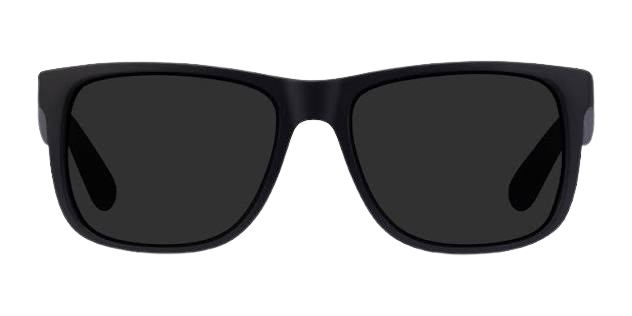
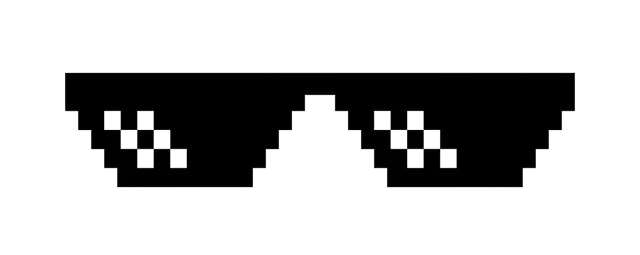
Swap in pixel-art sunglasses and lift the mustache
Sunglasses.png replaced with pixel-art frames. The art fills 79.7% of the
image width where the previous photo-real pair filled 88.1%, so
CONTENT_WIDTH_FRACTION moves with it - that constant is what converts a
desired visible width into the sprite width, so leaving it would have
rendered every pair about 10% too narrow. Alignment needed nothing: the new
art is bbox-centred at (0.500, 0.510), so the existing centre anchor still
lines up. Aspect goes 2:1 -> 2.51:1, which falls out of the texture.

Mustache NOSE_DROP_FACTOR 0.18 -> 0.14. 0.18 overshot onto the upper lip;
this parks it in the gap between nose and mouth.

diff --git a/client-ns-photobooth/src/anim/sunglasses.ts b/client-ns-photobooth/src/anim/sunglasses.ts
@@ -17,16 +17,20 @@ const KF_PARAMS = { R: 0.03, Q: 2 }
 
 // ---------------------------------------------------------------------------
 // Art geometry — measured from Sunglasses.png's alpha channel, not guessed.
-// 632x316, front-facing and already bbox-centred (content spans x
-// 0.059..0.940, y 0.190..0.807 — centre sits at 0.499, 0.498), so a plain
+// 640x255 pixel-art frames, front-facing and bbox-centred (content spans x
+// 0.102..0.898, y 0.282..0.737 — centre sits at 0.500, 0.510), so a plain
 // centre anchor lines the frame up with the face without needing a custom
 // anchor point the way the wig/ear props do.
+//
+// Note the aspect: this art is 2.51:1 where the previous photo-real pair was
+// 2:1, so the frames render proportionally shorter for the same width. That
+// falls out of the texture aspect automatically below — nothing to tune.
 // ---------------------------------------------------------------------------
 
 /** How much of the image's width the visible frame occupies. Used to convert
  * a *desired visible width* (relative to ear-to-ear distance) into the full
  * sprite width PIXI needs to be told. */
-const CONTENT_WIDTH_FRACTION = 0.881
+const CONTENT_WIDTH_FRACTION = 0.797
 
 /** Desired *visible* width of the glasses, relative to ear-to-ear distance.
  * Real frames span most of the face's width at eye level, which is a touch

diff --git a/client-ns-photobooth/src/anim/mustache.ts b/client-ns-photobooth/src/anim/mustache.ts
@@ -43,11 +43,12 @@ const VISIBLE_SIZE_FACTOR = 0.5
 
 /** How far below the nose tip the mustache sits, as a fraction of ear-to-ear
  * distance. The nose landmark (MP-33 index 0) lands at the tip itself, well
- * above the upper lip, so this needs to be a real drop (comparable to
- * sunglasses.ts's EYE_LIFT_FACTOR, not a token nudge) to clear the nose
- * entirely and land on the lip. Was 0.03, which barely moved it off the
- * nose. Tune this if it sits too high/low. */
-const NOSE_DROP_FACTOR = 0.18
+ * above the upper lip, so this needs a real drop (comparable to
+ * sunglasses.ts's EYE_LIFT_FACTOR, not a token nudge) to clear the nose at
+ * all — 0.03 barely moved it. 0.18 then overshot the other way and sat down
+ * on the lip, so this splits the difference and parks it in the gap between
+ * nose and mouth. Tune this if it sits too high/low. */
+const NOSE_DROP_FACTOR = 0.14
 
 // A jump larger than this (in ear-to-ear distances) means this animation slot
 // has been handed to a different person, not that someone moved quickly. Snap
